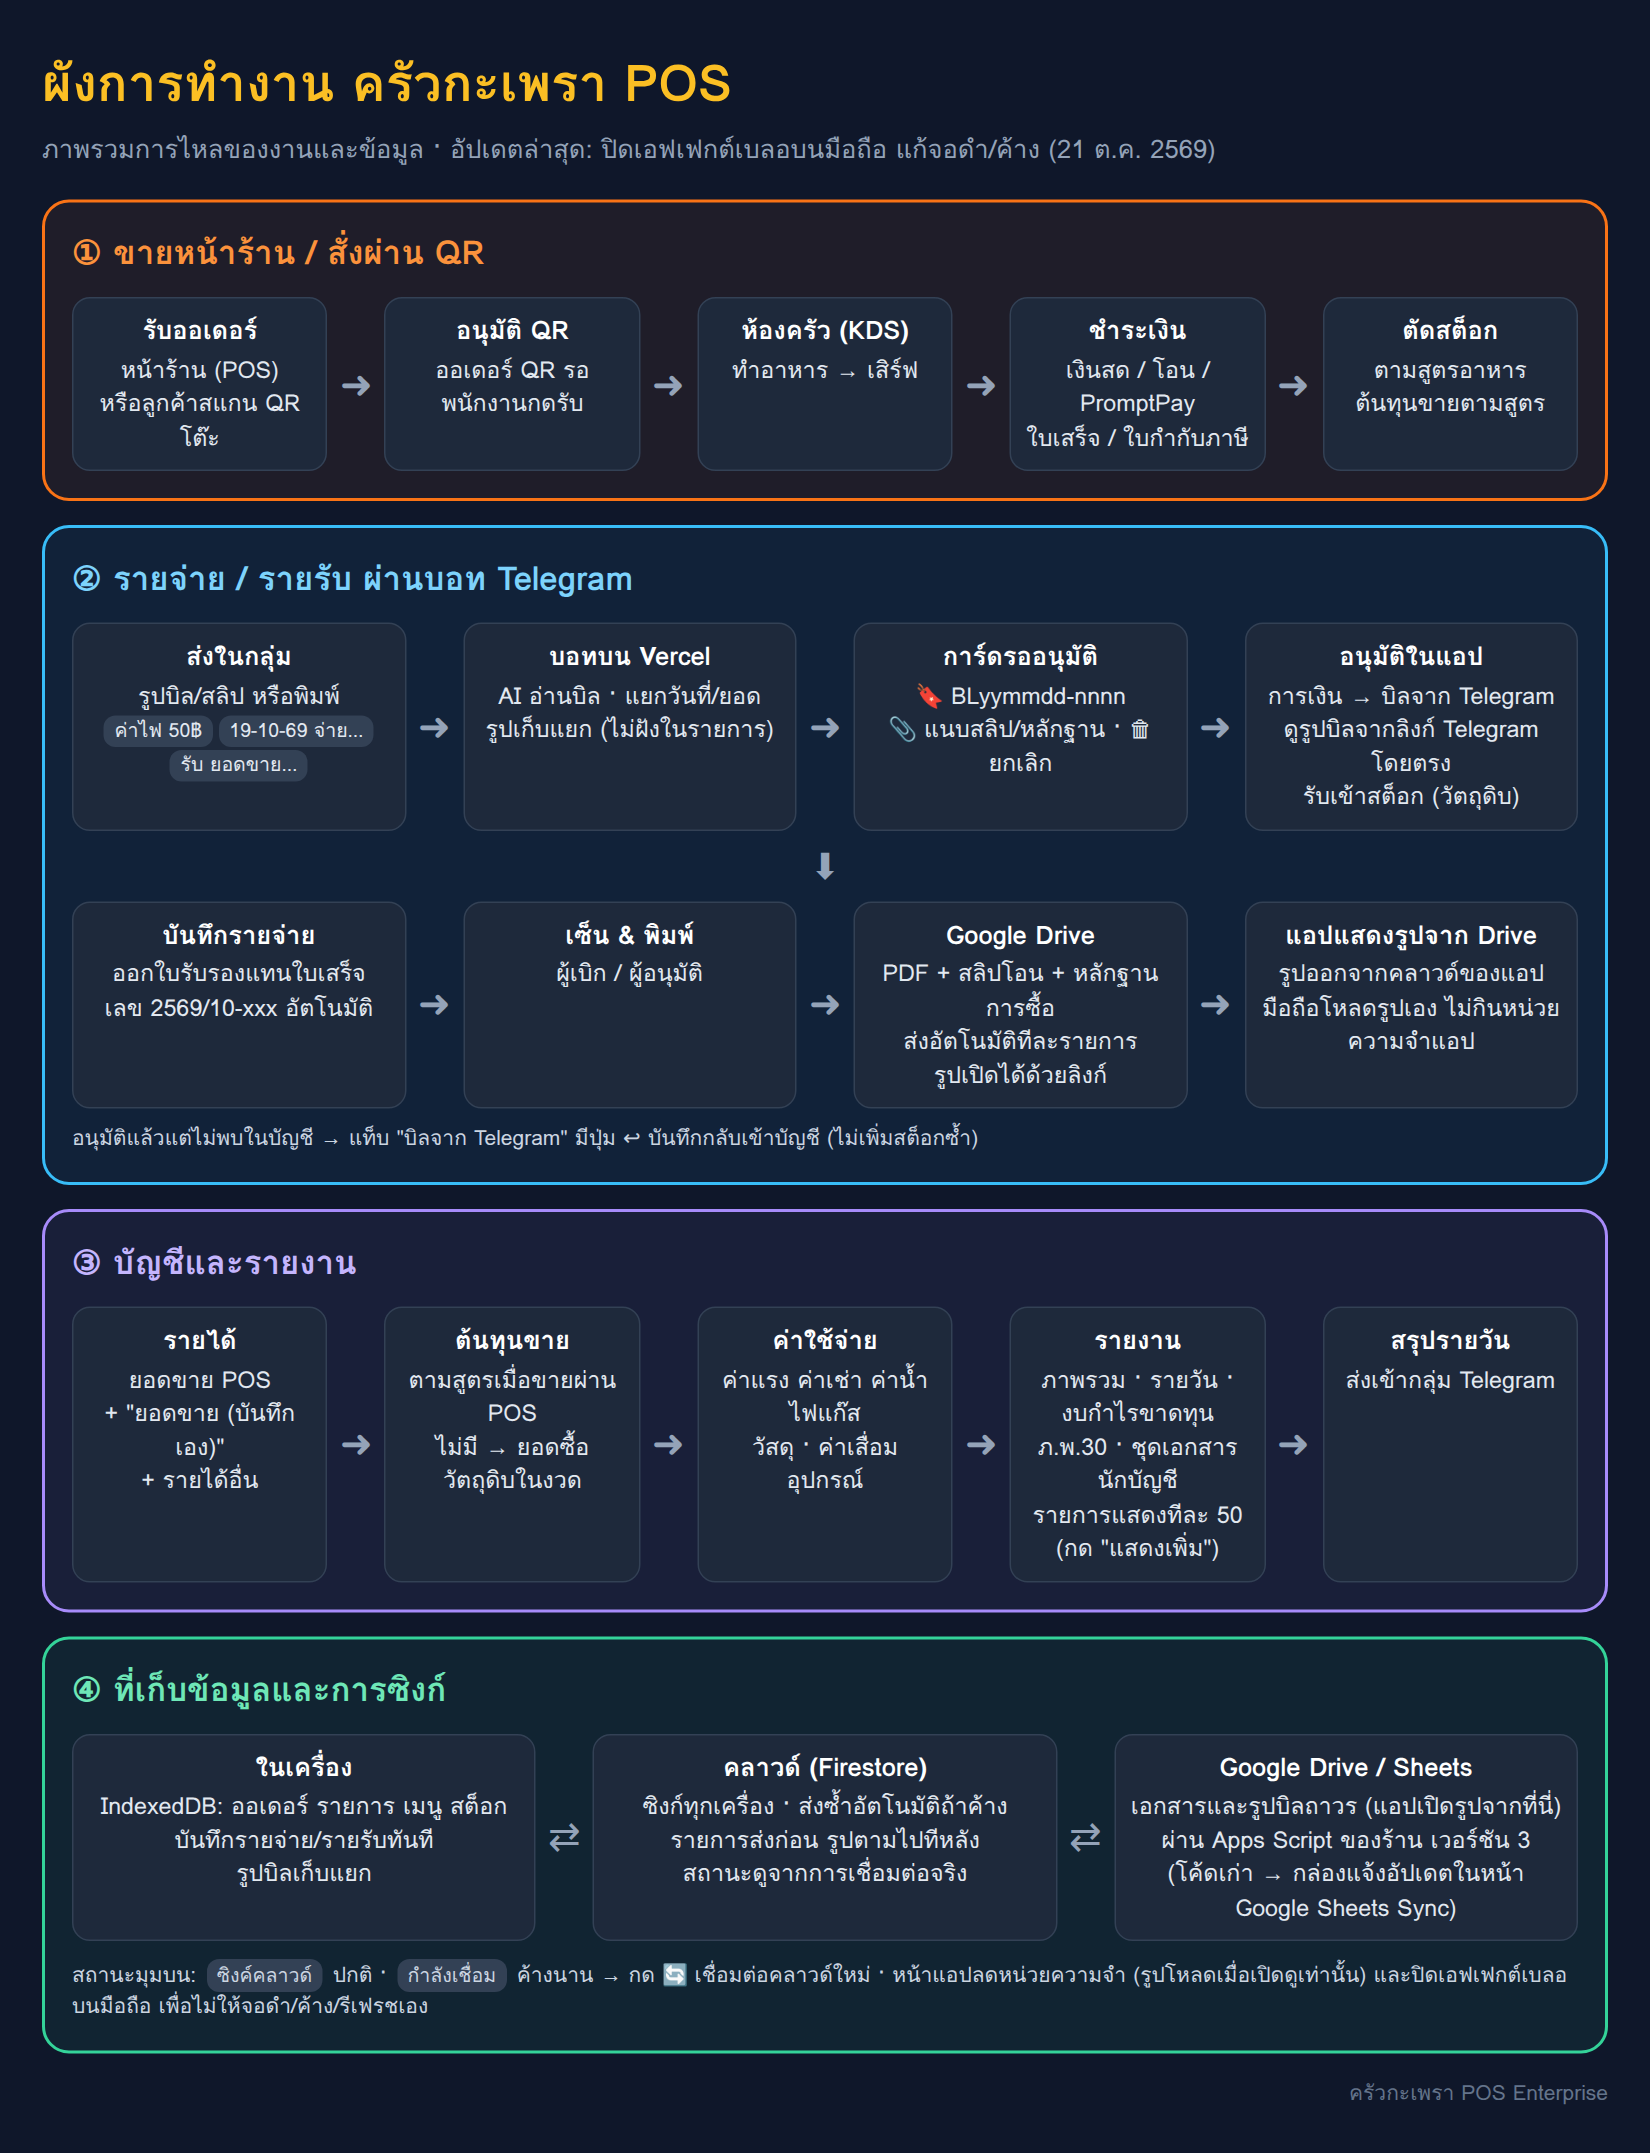
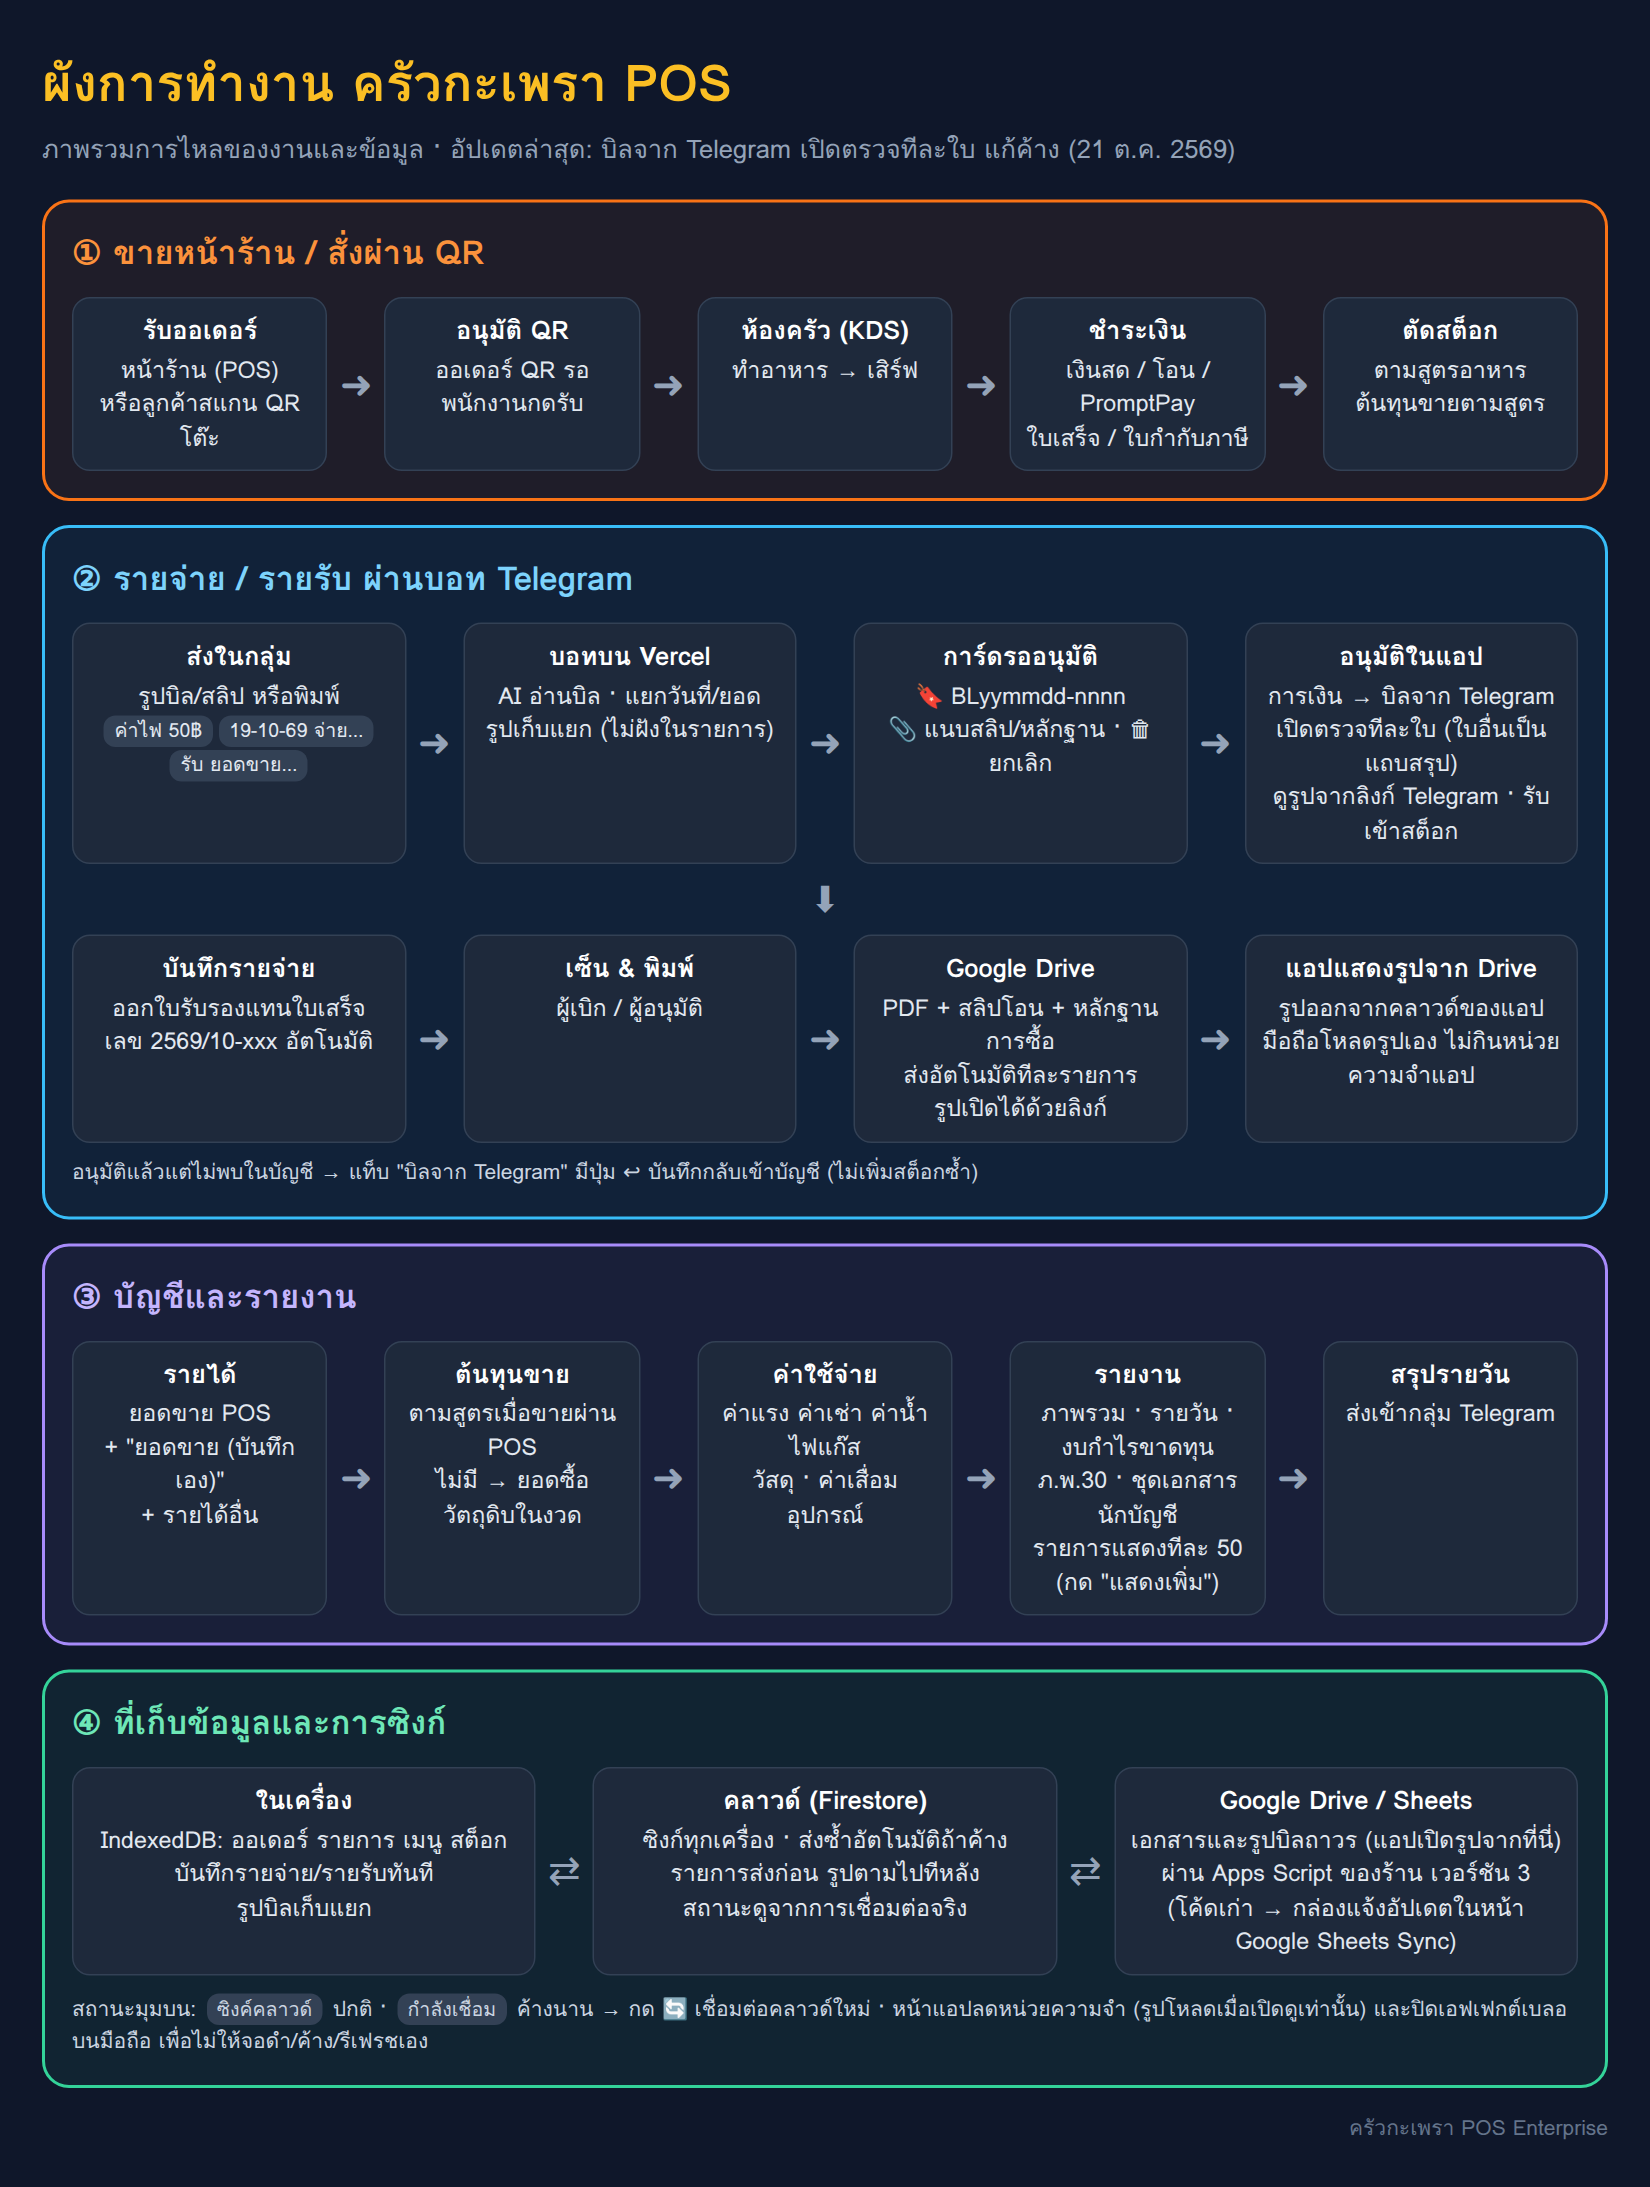
Telegram bills: review one bill at a time, the page no longer freezes
Every waiting bill built its whole form, with a list of every ingredient
for each line of the bill. With 18 bills (8 lines each, 200 ingredients)
the page did not appear within 30 s on a 4x slower CPU. Now only the bill
being reviewed is open (the first one waiting); the others are one-line
summaries to tap. The page shows in about 1 s.

Claude-Session: https://claude.ai/code/session_01Gq3UvYW4wv3hsVCXoh5wxy

diff --git a/src/components/telegram/TelegramInboxPanel.tsx b/src/components/telegram/TelegramInboxPanel.tsx
@@ -102,6 +102,9 @@ export const TelegramInboxPanel: React.FC<{ incomeLabels: Record<IncomeCategory,
   const token = getStoredCredentials().telegramToken;
 
   const waiting = useMemo(() => items.filter(p => p.status === 'pending' || p.status === 'failed' || p.status === 'reading' || stockOnly(p)), [items]);
+  // The bill being reviewed (the first one waiting until another is chosen)
+  const [chosenId, setOpenId] = useState<string | null>(null);
+  const openId = chosenId && waiting.some(p => p.id === chosenId) ? chosenId : waiting[0]?.id || null;
   const history = useMemo(() => items.filter(p => (p.status === 'approved' || p.status === 'rejected') && !stockOnly(p)).slice(0, 50), [items]);
 
   /** The ใบรับรองแทนใบเสร็จ of an approved entry: next number of the month, the sender paid */
@@ -427,6 +430,34 @@ export const TelegramInboxPanel: React.FC<{ incomeLabels: Record<IncomeCategory,
       )}
 
       {waiting.map(p => {
+        // One bill is open at a time: every open bill built its whole form (and a list of every
+        // ingredient for each line of the bill), which froze phones with many bills waiting
+        if (p.id !== openId) {
+          const d = p.data;
+          return (
+            <button
+              key={p.id}
+              type="button"
+              onClick={() => setOpenId(p.id)}
+              className="w-full text-left bg-slate-900 border border-slate-800 rounded-2xl p-4 text-xs flex items-center justify-between gap-3 active:scale-[0.99]"
+            >
+              <span className="min-w-0">
+                <span className="block font-bold text-slate-100 truncate">
+                  {p.billNo ? `🔖 ${p.billNo} · ` : ''}
+                  {d?.title || p.caption || 'บิลจาก Telegram'}
+                </span>
+                <span className="block text-slate-400 mt-0.5 truncate">
+                  {p.status === 'reading' ? '⏳ กำลังอ่านบิล' : p.status === 'failed' ? '⚠ อ่านไม่สำเร็จ' : stockOnly(p) ? '📦 รอรับเข้าสต็อก' : 'รออนุมัติ'} · จาก {p.senderName}
+                  {d?.date ? ` · ${d.date}` : ''}
+                </span>
+              </span>
+              <span className="shrink-0 text-right">
+                <span className="block font-mono font-bold text-rose-300">{d ? baht(d.amount) : ''}</span>
+                <span className="block text-sky-300 mt-0.5">เปิดดู ▾</span>
+              </span>
+            </button>
+          );
+        }
         const f = form(p);
         const only = stockOnly(p);
         const vat = f.kind === 'expense' && f.includeVat ? vatInside(f.amount, vatRate) : 0;

diff --git a/docs/workflow/flow.html b/docs/workflow/flow.html
@@ -17,7 +17,7 @@ h1{margin:0 0 4px;font-size:34px;color:#fbbf24}.sub{color:#94a3b8;font-size:17px
 .foot{color:#64748b;font-size:14px;margin-top:6px;text-align:right}
 </style></head><body>
 <h1>ผังการทำงาน ครัวกะเพรา POS</h1>
-<div class="sub">ภาพรวมการไหลของงานและข้อมูล · อัปเดตล่าสุด: ปิดเอฟเฟกต์เบลอบนมือถือ แก้จอดำ/ค้าง (21 ต.ค. 2569)</div>
+<div class="sub">ภาพรวมการไหลของงานและข้อมูล · อัปเดตล่าสุด: บิลจาก Telegram เปิดตรวจทีละใบ แก้ค้าง (21 ต.ค. 2569)</div>
 
 <div class="lane pos"><h2>① ขายหน้าร้าน / สั่งผ่าน QR</h2>
 <div class="row">
@@ -33,7 +33,7 @@ h1{margin:0 0 4px;font-size:34px;color:#fbbf24}.sub{color:#94a3b8;font-size:17px
 <div class="box"><b>ส่งในกลุ่ม</b>รูปบิล/สลิป หรือพิมพ์<br><span class="tag">ค่าไฟ 50฿</span><span class="tag">19-10-69 จ่าย…</span><span class="tag">รับ ยอดขาย…</span></div><div class="ar">➜</div>
 <div class="box"><b>บอทบน Vercel</b>AI อ่านบิล · แยกวันที่/ยอด<br>รูปเก็บแยก (ไม่ฝังในรายการ)</div><div class="ar">➜</div>
 <div class="box"><b>การ์ดรออนุมัติ</b>🔖 BLyymmdd-nnnn<br>📎 แนบสลิป/หลักฐาน · 🗑 ยกเลิก</div><div class="ar">➜</div>
-<div class="box"><b>อนุมัติในแอป</b>การเงิน → บิลจาก Telegram<br>ดูรูปบิลจากลิงก์ Telegram โดยตรง<br>รับเข้าสต็อก (วัตถุดิบ)</div>
+<div class="box"><b>อนุมัติในแอป</b>การเงิน → บิลจาก Telegram<br>เปิดตรวจทีละใบ (ใบอื่นเป็นแถบสรุป)<br>ดูรูปจากลิงก์ Telegram · รับเข้าสต็อก</div>
 </div>
 <div class="down">⬇</div>
 <div class="row">
